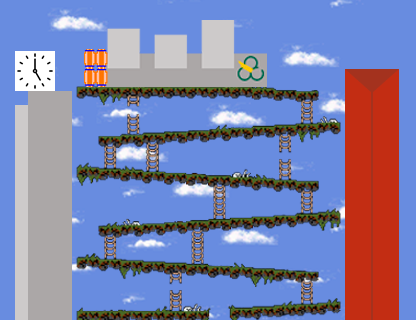
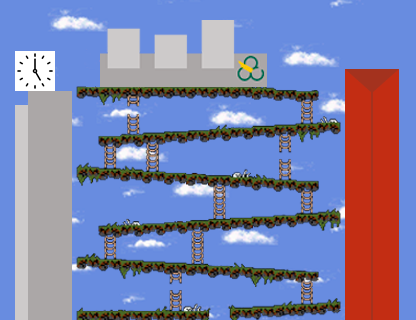
adicao do cavaleiro

Changed region(s): [[0.1875, 0.1562, 0.2812, 0.2812]]

diff --git a/game.py b/game.py
@@ -32,6 +32,7 @@ class GameView(arcade.View):
         # Sprite lists
         self.player_list = None
         self.enemy_list = None
+        self.cavaleiro_list = None
 
         # Physics lists
         self.physics_engine_enemy_list = None
@@ -40,6 +41,7 @@ class GameView(arcade.View):
 
         # Set up the player
         self.player_sprite = None
+        self.cavaleiro_sprite = None
         self.enemy_sprite = None
 
 
@@ -58,17 +60,28 @@ class GameView(arcade.View):
         # Sprite lists
         self.player_list = arcade.SpriteList()
         self.enemy_list = arcade.SpriteList()
+        self.cavaleiro_list = arcade.SpriteList()
         self.physics_engine_enemy_list = []
+
         # Set up the player
         self.player_sprite = arcade.Sprite(
             "assets/playerFixo.png", 1,
         )
         # Starting position of the player
         self.player_sprite.center_x = 180
-        self.player_sprite.center_y = 70
+        self.player_sprite.center_y = 50
         self.player_sprite.boundary_bottom = -550
         self.player_list.append(self.player_sprite)
    
+        # Set up the cavaleiro
+        self.cavaleiro_sprite = arcade.Sprite(
+            "assets/cavaleiroFixo.png", 1,
+        )
+        # Starting position of the player
+        self.cavaleiro_sprite.center_x = 180
+        self.cavaleiro_sprite.center_y = 485
+        self.cavaleiro_list.append(self.cavaleiro_sprite)
+
         # Estrutura das plataformas
         map_name = "assets/map.json"
         layer_options = {
@@ -123,6 +136,7 @@ class GameView(arcade.View):
         # Draw all the sprites.
         self.player_list.draw()
         self.enemy_list.draw()
+        self.cavaleiro_list.draw()
         # esconder as plataformas que dão fisica
         # self.wall_list.draw()
 
@@ -173,7 +187,7 @@ class GameView(arcade.View):
             self.enemy_sprite = arcade.Sprite("assets/barrilFixo.png", 1.5)
 
             self.enemy_sprite.center_x = 180
-            self.enemy_sprite.center_y = 500
+            self.enemy_sprite.center_y = 510
 
             # Set enemy initial speed
             self.enemy_sprite.change_x = 5

diff --git a/main.py b/main.py
@@ -33,6 +33,13 @@ class MainView(arcade.View):
         game_view = game.GameView()
         game_view.setup()
         self.window.show_view(game_view)
+        
+    def on_key_press(self, key, modifiers):
+        """ Use a mouse press to advance to the 'game' view. """
+        if key == arcade.key.ENTER:
+            game_view = game.GameView()
+            game_view.setup()
+            self.window.show_view(game_view)
 
 def main():
     """ Startup """
